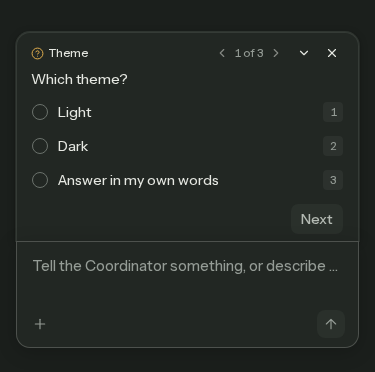
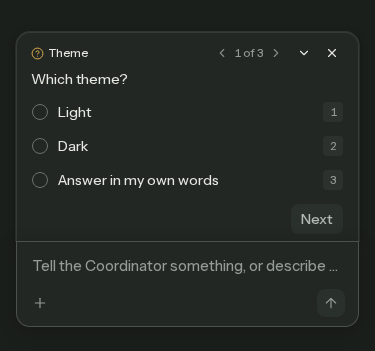
web(3138): composer placeholder keeps its own colour for axe while the one-line overlay ellipsizes it (D119)

diff --git a/apps/web/src/chief/chief-conversation.tsx b/apps/web/src/chief/chief-conversation.tsx
@@ -761,7 +761,7 @@ export function ChiefConversation({
                   data-testid="chief-composer-input"
                   data-compose-target=""
                   aria-invalid={composerError != null ? true : undefined}
-                  className={`h-9 max-h-30 min-h-0 resize-none overflow-y-auto rounded-none border-none bg-transparent px-0.5 pt-0.5 pb-2.5 font-sans text-card-title md:text-card-title tabular-nums shadow-none field-sizing-fixed focus-visible:border-transparent focus-visible:ring-0 focus-visible:outline-none dark:bg-transparent ${MENTION_TEXTAREA_CLS} placeholder:text-transparent`}
+                  className={`h-9 max-h-30 min-h-0 resize-none overflow-y-auto rounded-none border-none bg-transparent px-0.5 pt-0.5 pb-2.5 font-sans text-card-title md:text-card-title tabular-nums shadow-none field-sizing-fixed focus-visible:border-transparent focus-visible:ring-0 focus-visible:outline-none dark:bg-transparent ${MENTION_TEXTAREA_CLS} placeholder:text-(--text-tertiary) [&::placeholder]:whitespace-nowrap [&::placeholder]:opacity-0`}
                   readOnly={onSend == null}
                   value={wire.draft}
                   onChange={wire.handleChange}
@@ -798,7 +798,7 @@ export function ChiefConversation({
                   <span
                     aria-hidden
                     data-testid="chief-composer-placeholder"
-                    className="pointer-events-none absolute inset-x-0.5 top-0.5 truncate font-sans text-card-title tabular-nums text-(--text-tertiary)"
+                    className="pointer-events-none absolute inset-x-0 top-0 truncate px-0.5 pt-0.5 font-sans text-card-title tabular-nums text-(--text-tertiary)"
                   >
                     {composerPlaceholder}
                   </span>
